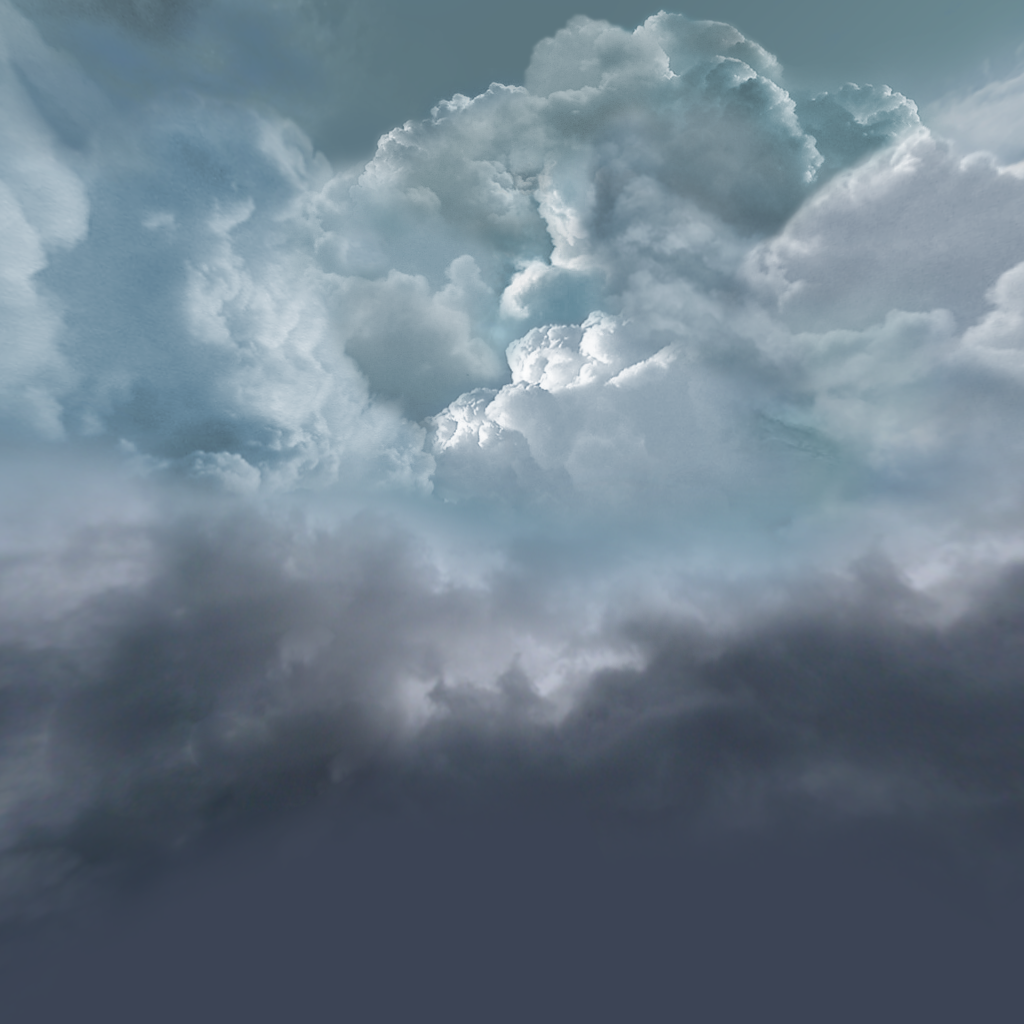
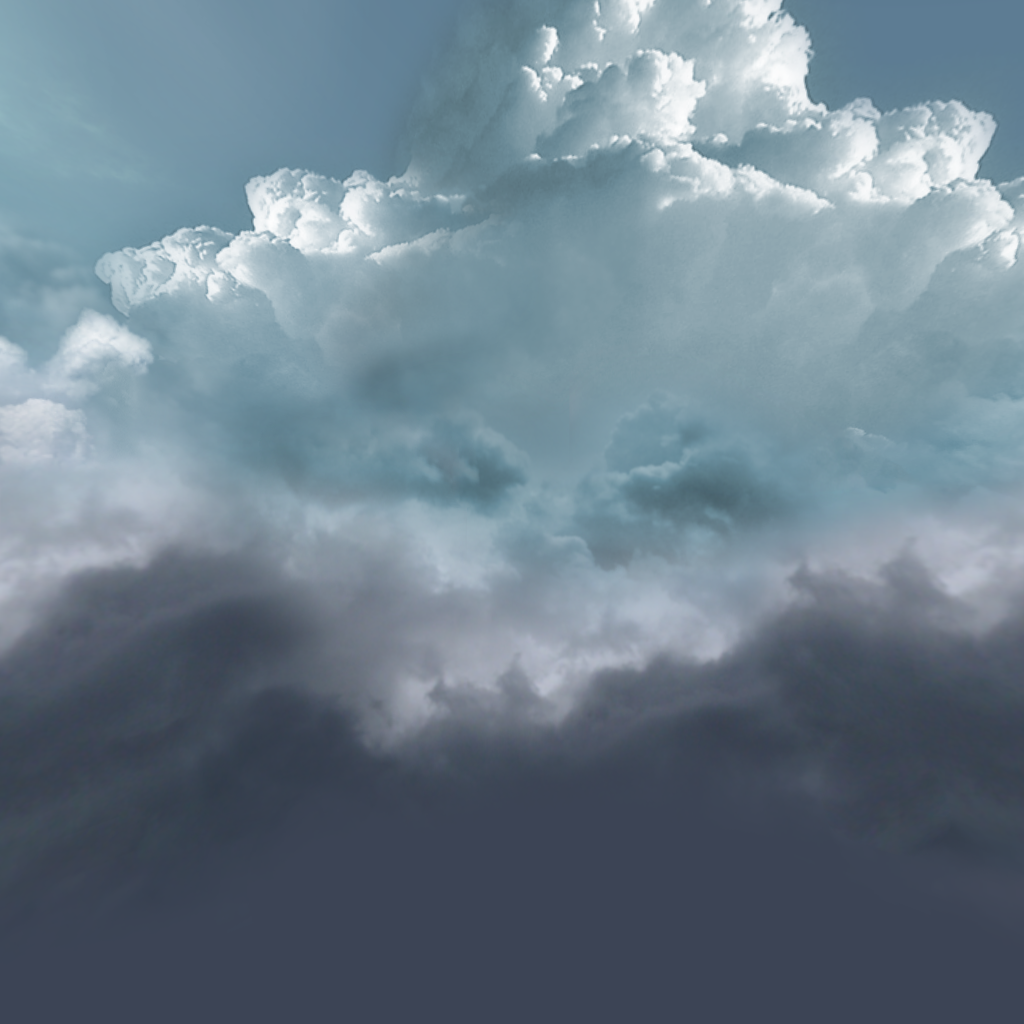
[REFACTOR] Simplify skybox rendering engine
Use unit cube with indexed geometry instead of large 500-unit cube with
duplicated vertices. Strip view matrix translation in shader via
mat4(mat3()) trick and write depth=1.0 via xyww so all scene geometry
renders in front. Remove texture coordinate negation hack in fragment
shader. Swap front/back skybox textures to match correct orientation.

diff --git a/src/main/org/atriasoft/ege/engines/EngineSkybox.java b/src/main/org/atriasoft/ege/engines/EngineSkybox.java
@@ -1,0 +1,192 @@
+package org.atriasoft.ege.engines;
+
+import org.atriasoft.ege.Component;
+import org.atriasoft.ege.Engine;
+import org.atriasoft.ege.Environement;
+import org.atriasoft.ege.camera.Camera;
+import org.atriasoft.ege.skybox.SkyboxConfig;
+import org.atriasoft.etk.Uri;
+import org.atriasoft.etk.math.Matrix4f;
+import org.atriasoft.gale.backend3d.OpenGL;
+import org.atriasoft.gale.resource.ResourceProgram;
+import org.atriasoft.gale.resource.ResourceTextureCubeMap;
+import org.atriasoft.gale.resource.ResourceVirtualArrayObject;
+import org.lwjgl.opengl.GL11;
+import org.slf4j.Logger;
+import org.slf4j.LoggerFactory;
+
+/**
+ * Engine that renders a cubemap skybox behind all scene geometry.
+ * <p>
+ * Uses a unit cube (-1..+1) centered at the origin. The vertex shader strips
+ * translation from the view matrix so the skybox stays at infinity, and writes
+ * depth = 1.0 via the xyww trick so all scene geometry renders in front.
+ * <p>
+ * Must be inserted in the engine list AFTER {@link EngineShadow} (so shadow
+ * maps are ready) and BEFORE {@link EngineRender} (so the skybox is drawn
+ * first and scene geometry overwrites it).
+ */
+public class EngineSkybox extends Engine {
+	public static final String ENGINE_NAME = "skybox";
+	private static final Logger LOGGER = LoggerFactory.getLogger(EngineSkybox.class);
+
+	// Unit cube: 8 vertices, 36 indices (viewed from inside, CCW winding)
+	//@formatter:off
+	private static final float[] CUBE_VERTICES = {
+		-1,  1, -1,  // 0: left  top    back
+		 1,  1, -1,  // 1: right top    back
+		 1, -1, -1,  // 2: right bottom back
+		-1, -1, -1,  // 3: left  bottom back
+		-1,  1,  1,  // 4: left  top    front
+		 1,  1,  1,  // 5: right top    front
+		 1, -1,  1,  // 6: right bottom front
+		-1, -1,  1,  // 7: left  bottom front
+	};
+
+	private static final int[] CUBE_INDICES = {
+		// -Z face (back, viewed from inside → CCW)
+		0, 2, 1,
+		0, 3, 2,
+		// +Z face (front, viewed from inside → CCW)
+		4, 5, 6,
+		4, 6, 7,
+		// -X face (left, viewed from inside → CCW)
+		0, 4, 7,
+		0, 7, 3,
+		// +X face (right, viewed from inside → CCW)
+		1, 2, 6,
+		1, 6, 5,
+		// +Y face (top, viewed from inside → CCW)
+		0, 1, 5,
+		0, 5, 4,
+		// -Y face (bottom, viewed from inside → CCW)
+		3, 7, 6,
+		3, 6, 2,
+	};
+	//@formatter:on
+
+	private SkyboxConfig config;
+	private ResourceTextureCubeMap cubeMap;
+	private ResourceVirtualArrayObject cubeVao;
+	private ResourceProgram program;
+	private int uniformProjection;
+	private int uniformView;
+	private int uniformCubeMap;
+	private boolean initialized = false;
+
+	public EngineSkybox(final Environement env) {
+		super(env);
+	}
+
+	/**
+	 * Configure the skybox with the given configuration.
+	 * Can be called at any time; the GPU resources are created lazily.
+	 * @param config Skybox configuration (null to disable)
+	 */
+	public void setConfig(final SkyboxConfig config) {
+		this.config = config;
+		this.initialized = false;
+		this.cubeMap = null;
+		this.program = null;
+		this.cubeVao = null;
+	}
+
+	/**
+	 * Get the current skybox configuration.
+	 * @return Current config, or null if no skybox is set
+	 */
+	public SkyboxConfig getConfig() {
+		return this.config;
+	}
+
+	private void initResources() {
+		if (this.config == null) {
+			return;
+		}
+		LOGGER.debug("Initializing skybox resources");
+		// Create cubemap texture (face order: +X, -X, +Y, -Y, +Z, -Z)
+		this.cubeMap = ResourceTextureCubeMap.create(
+				this.config.getRight(),
+				this.config.getLeft(),
+				this.config.getTop(),
+				this.config.getBottom(),
+				this.config.getFront(),
+				this.config.getBack());
+		// Create cube VAO with indexed geometry
+		this.cubeVao = ResourceVirtualArrayObject.create(CUBE_VERTICES, null, null, null, CUBE_INDICES);
+		this.cubeVao.updateContext();
+		// Create shader program
+		final Uri vertexUri = new Uri("DATA", "skybox.vert", "ege");
+		final Uri fragmentUri = new Uri("DATA", "skybox.frag", "ege");
+		this.program = ResourceProgram.create(vertexUri, fragmentUri);
+		if (this.program != null) {
+			this.uniformProjection = this.program.getUniform("in_matrixProjection");
+			this.uniformView = this.program.getUniform("in_matrixView");
+			this.uniformCubeMap = this.program.getUniform("cubeMap");
+		}
+		this.initialized = true;
+	}
+
+	@Override
+	public void render(final long deltaMili, final Camera camera) {
+		if (this.config == null) {
+			return;
+		}
+		if (!this.initialized) {
+			initResources();
+		}
+		if (this.program == null || this.cubeMap == null || this.cubeVao == null) {
+			return;
+		}
+		// Use GL_LEQUAL so fragments at depth 1.0 (from xyww trick) pass
+		GL11.glDepthFunc(GL11.GL_LEQUAL);
+
+		this.program.use();
+
+		final Matrix4f projectionMatrix = OpenGL.getMatrix();
+		final Matrix4f viewMatrix = OpenGL.getCameraMatrix();
+		this.program.uniformMatrix(this.uniformProjection, projectionMatrix);
+		this.program.uniformMatrix(this.uniformView, viewMatrix);
+
+		// Bind cubemap texture to unit 0
+		this.cubeMap.bindForRendering(0);
+		this.program.uniformInt(this.uniformCubeMap, 0);
+
+		// Draw cube
+		this.cubeVao.bindForRendering();
+		OpenGL.updateAllFlags();
+		this.cubeVao.render(OpenGL.RenderMode.TRIANGLE);
+		this.cubeVao.unBindForRendering();
+
+		this.cubeMap.unBindForRendering();
+		this.program.unUse();
+
+		// Restore default depth function
+		GL11.glDepthFunc(GL11.GL_LESS);
+	}
+
+	@Override
+	public String getType() {
+		return ENGINE_NAME;
+	}
+
+	@Override
+	public void componentAdd(final Component ref) {
+		// Skybox is not component-based
+	}
+
+	@Override
+	public void componentRemove(final Component ref) {
+		// Skybox is not component-based
+	}
+
+	@Override
+	public void update(final long deltaMili) {
+		// No per-frame updates needed
+	}
+
+	@Override
+	public void renderDebug(final long deltaMili, final Camera camera) {
+		// No debug rendering
+	}
+}
